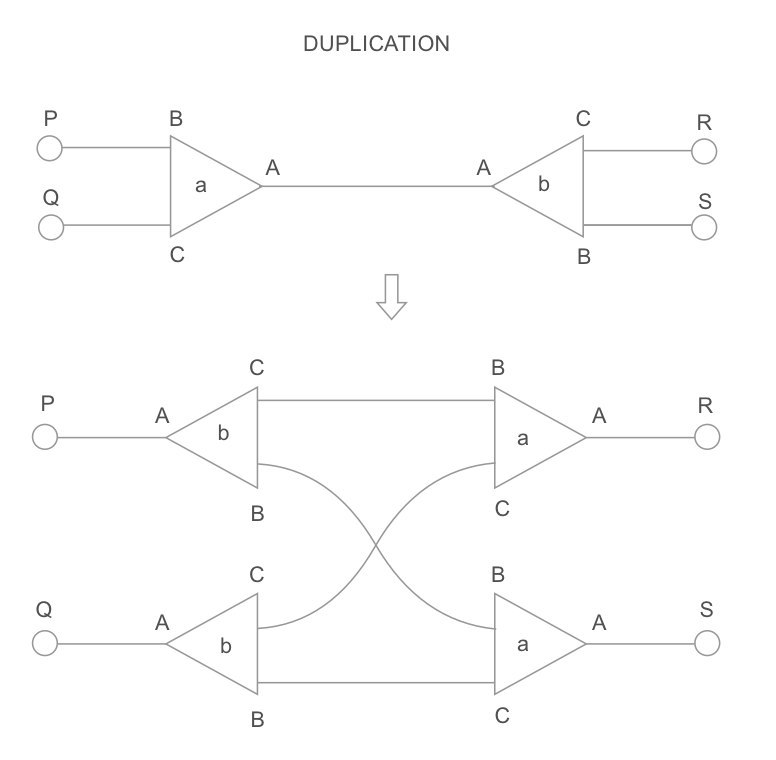
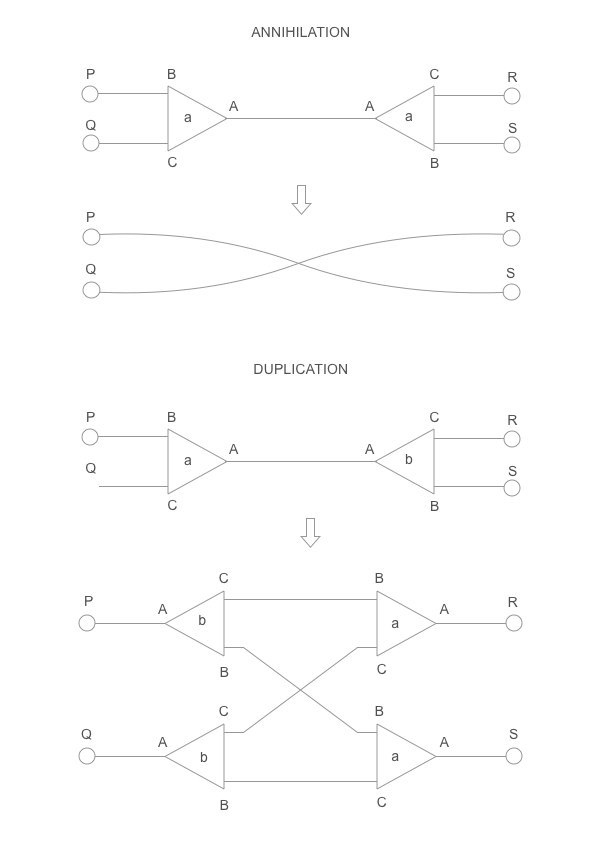
Fix image

diff --git a/README.md b/README.md
@@ -4,7 +4,7 @@ Note: just a draft / hand-drawn images, will be reviewed soon
 
 The input is a graph where every node has exactly 3 edges coming out of 3 labelled ports (port A, port B, port C) and a single 32-bit "node label" (do not confuse with port labels). If this graph has any edge connecting two nodes through ports A, then those nodes form an "active pair", and must be rewritten due to one of the two following rules:
 
-![](rewrite_rules_a_sk.jpeg)
+![](rewrite_rules_a.JPG)
 
 Here, the triangles represent nodes, `A`, `B` and `C` represent port labels (i.e., their order), `a` and `b` represent node labels (32-bit values), and the lone circles represent separete ports (i.e., some ports in other nodes of the graph). The first rule is used if the node labels are identical. The second one if they are different. That could cause different nodes to become active pairs. If that is the case, those must be rewritten too. That process goes on until there is no active pair left. 
 
